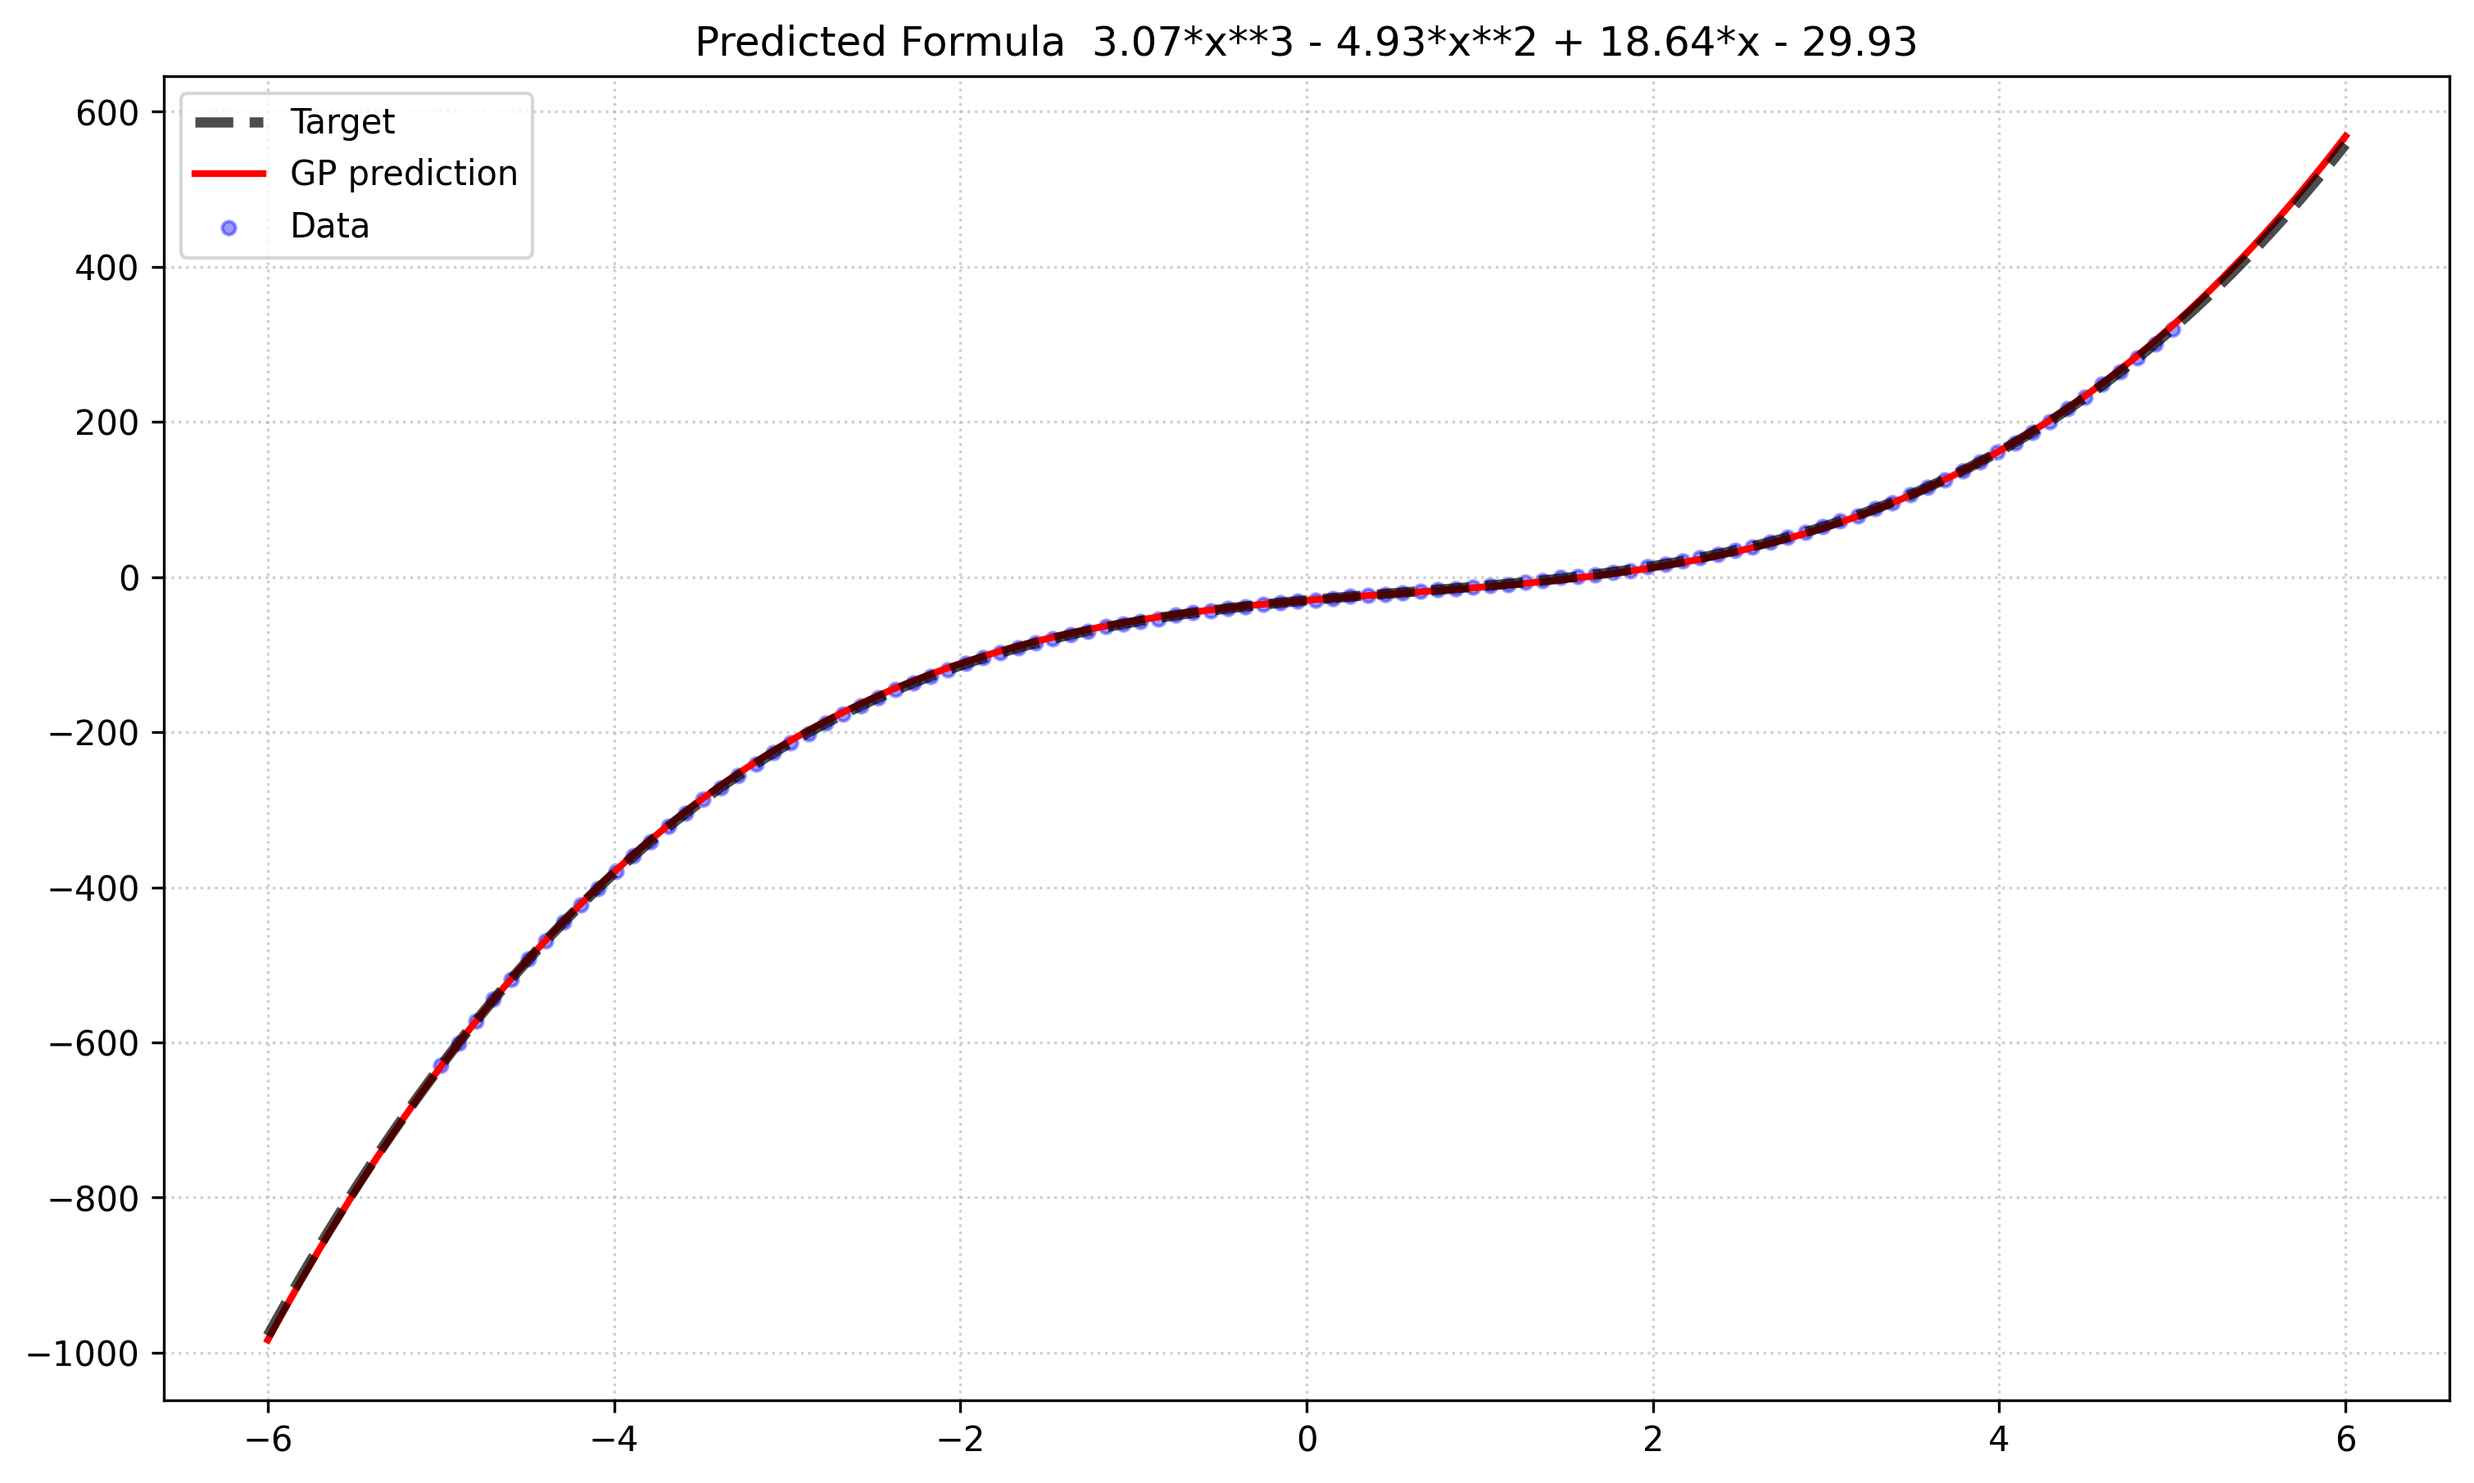
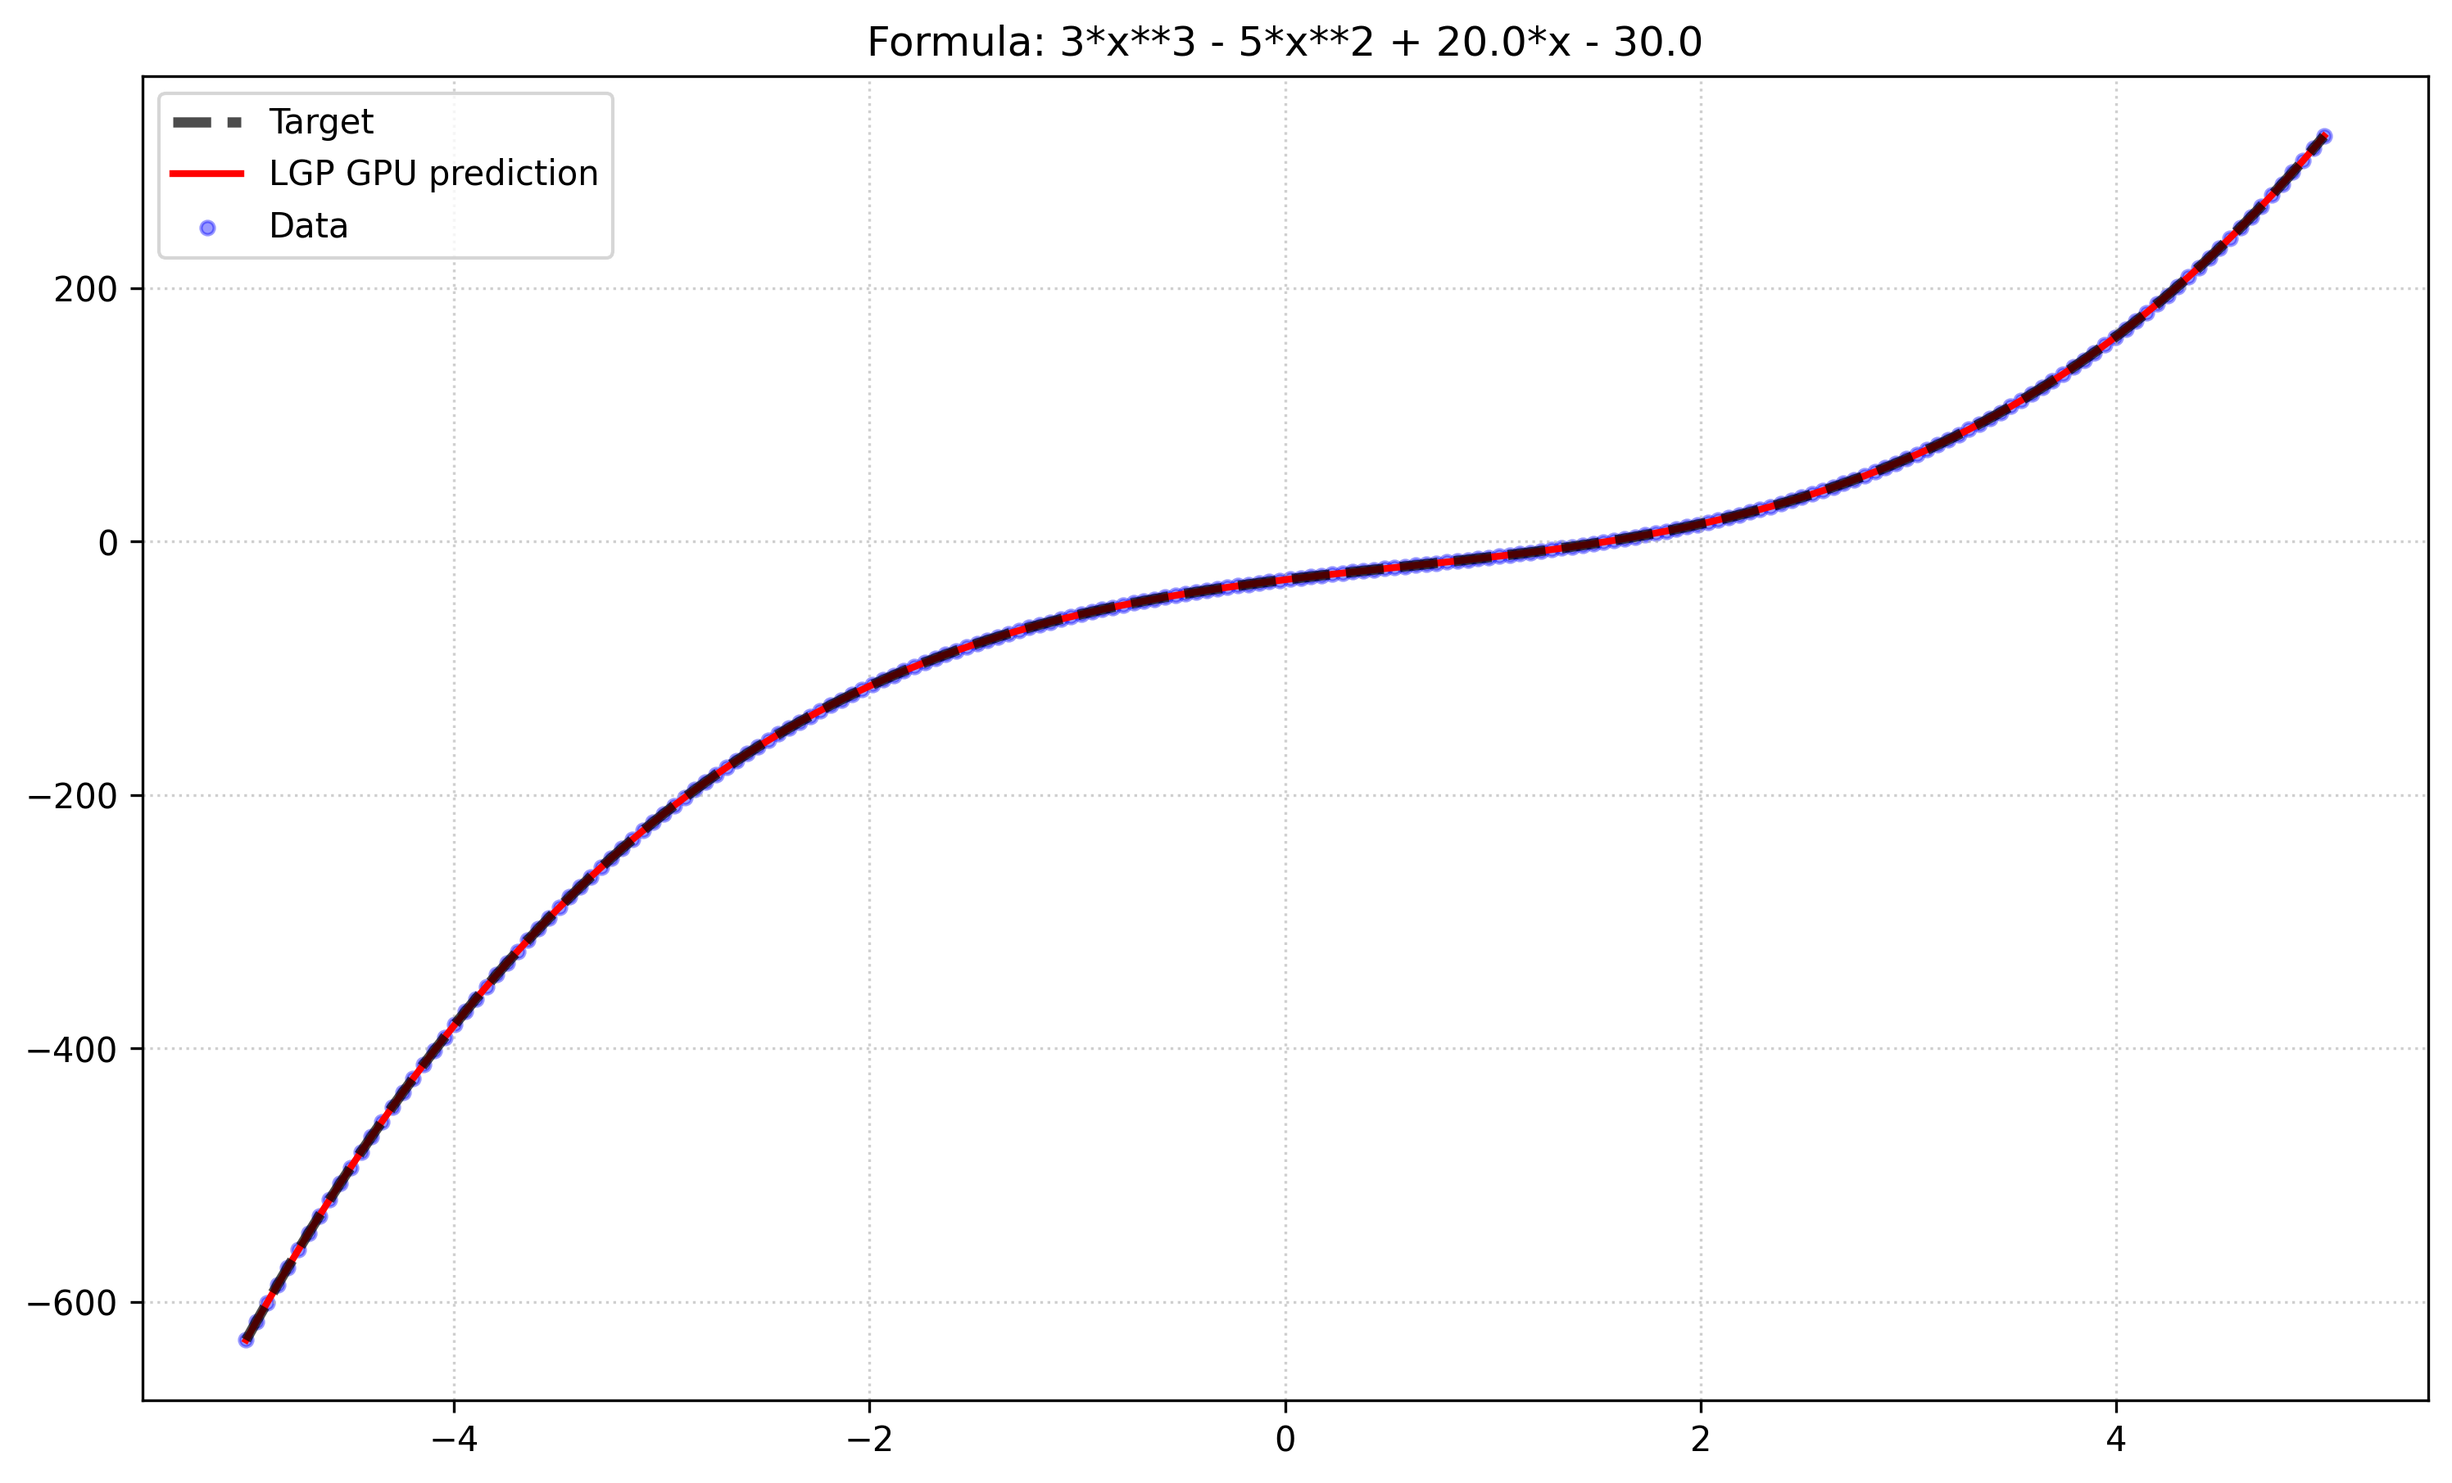
to a simple Linear GP

diff --git a/gp_engine.py b/gp_engine.py
@@ -1,95 +1,78 @@
-import numpy as np
+import torch
 import sympy
 
-operators = {
-    'add': np.add,
-    'sub': np.subtract,
-    'mul': np.multiply,
-    'pow': lambda x, y: np.power(np.abs(x), np.clip(y, -4, 4))
-}
-
-class Node:
-    def __init__(self, value, left=None, right=None):
-        self.value = value
-        self.left = left
-        self.right = right
+class LGPEngine:
+    def __init__(self, pop_size, num_regs=6, max_instr=40, device='cuda'):
+        self.pop_size = pop_size
+        self.num_regs = num_regs
+        self.max_instr = max_instr
+        self.device = device
+        self.pop = torch.randint(0, num_regs, (pop_size, max_instr, 4), device=device)
+        self.pop[:, :, 1] = torch.randint(0, 3, (pop_size, max_instr), device=device)
 
     def evaluate(self, x):
-        if self.value == 'x': 
-            return x
-        if isinstance(self.value, (int, float)): 
-            return np.full_like(x, self.value)
+        n_pts = x.shape[0]
+        regs = torch.zeros((self.pop_size, self.num_regs, n_pts), device=self.device)
+        regs[:, 0, :] = x.expand(self.pop_size, n_pts)
         
-        l_val = self.left.evaluate(x)
-        r_val = self.right.evaluate(x)
-        
-        try:
-            res = operators[self.value](l_val, r_val)
-            return np.nan_to_num(res, nan=0.0, posinf=1e6, neginf=-1e6)
-        except:
-            return np.zeros_like(x)
+        for i in range(1, self.num_regs):
+            const_val = (i - self.num_regs//2) * 5.0
+            regs[:, i, :] = torch.full((self.pop_size, n_pts), const_val, device=self.device)
 
-    def copy(self):
-        return Node(self.value, self.left.copy() if self.left else None, self.right.copy() if self.right else None)
+        for i in range(self.max_instr):
+            instr = self.pop[:, i, :]
+            dst, op, s1, s2 = instr[:, 0], instr[:, 1], instr[:, 2], instr[:, 3]
+            
+            v1 = regs[torch.arange(self.pop_size), s1]
+            v2 = regs[torch.arange(self.pop_size), s2]
+            
+            res_add = v1 + v2
+            res_sub = v1 - v2
+            res_mul = v1 * v2
+            
+            ops_stack = torch.stack([res_add, res_sub, res_mul], dim=1)
+            regs[torch.arange(self.pop_size), dst] = ops_stack[torch.arange(self.pop_size), op]
+            
+        return torch.clamp(regs[:, 0, :], -1e6, 1e6)
 
-    def __str__(self):
-        if self.value == 'x': return "x"
-        if isinstance(self.value, (int, float)): return f"{self.value:.2f}"
-        if self.value == 'pow':
-            try:
-                exp = self.right.evaluate(np.array([1.0]))[0]
-                return f"({self.left}**{int(np.round(exp))})"
-            except:
-                return f"({self.left}**0)"
-        return f"({self.left} {self.value} {self.right})"
-
-    def get_depth(self):
-        if not self.left and not self.right: return 1
-        return 1 + max(self.left.get_depth() if self.left else 0, self.right.get_depth() if self.right else 0)
-
-    def get_all_nodes(self):
-        nodes = [self]
-        if self.left: nodes.extend(self.left.get_all_nodes())
-        if self.right: nodes.extend(self.right.get_all_nodes())
-        return nodes
-
-def generate_random_tree(depth=3):
-    if depth <= 1 or np.random.rand() < 0.2:
-        return Node('x') if np.random.rand() > 0.4 else Node(float(np.random.randint(-15, 16)))
-    op = np.random.choice(list(operators.keys()))
-    if op == 'pow':
-        return Node(op, generate_random_tree(depth-1), Node(float(np.random.randint(0, 4))))
-    return Node(op, generate_random_tree(depth-1), generate_random_tree(depth-1))
-
-def mutate(tree):
-    r = np.random.rand()
-    if isinstance(tree.value, (int, float)):
-        if r < 0.6:
-            tree.value += np.random.normal(0, 5.0)
-            return tree
+def evolve(engine, fitness):
+    pop_size, max_instr, _ = engine.pop.shape
+    idx = torch.argsort(fitness)
     
-    if r < 0.2:
-        return generate_random_tree(depth=3)
+    elites = engine.pop[idx[:pop_size // 10]]
     
-    if tree.left and np.random.rand() < 0.5:
-        tree.left = mutate(tree.left)
-    elif tree.right:
-        tree.right = mutate(tree.right)
-    return tree
+    p1 = elites[torch.randint(0, len(elites), (pop_size,))]
+    p2 = elites[torch.randint(0, len(elites), (pop_size,))]
+    
+    cp = torch.randint(0, max_instr, (pop_size, 1, 1), device=engine.device)
+    mask = torch.arange(max_instr, device=engine.device).view(1, -1, 1) < cp
+    offspring = torch.where(mask, p1, p2)
+    
+    mut_mask = torch.rand(offspring.shape, device=engine.device) < 0.08
+    mut_vals = torch.randint(0, engine.num_regs, offspring[mut_mask].shape, device=engine.device)
+    offspring[mut_mask] = mut_vals
+    offspring[:, :, 1] %= 3
+    
+    offspring[:len(elites)] = elites
+    engine.pop = offspring
 
-def crossover(p1, p2):
-    c = p1.copy()
-    nodes_c = c.get_all_nodes()
-    nodes_p2 = p2.get_all_nodes()
-    target = np.random.choice(nodes_c)
-    replacement = np.random.choice(nodes_p2).copy()
-    target.value, target.left, target.right = replacement.value, replacement.left, replacement.right
-    return c
-
-def final_simplify(node):
+def get_final_expression(best_individual, num_regs=6):
     x = sympy.Symbol('x')
-    raw = str(node).replace('add', '+').replace('sub', '-').replace('mul', '*').replace('pow', '**')
+    regs = [0.0] * num_regs
+    regs[0] = x
+    for i in range(1, num_regs):
+        regs[i] = float((i - num_regs//2) * 5.0)
+    
+    for i in range(best_individual.shape[0]):
+        dst, op, s1, s2 = map(int, best_individual[i])
+        v1, v2 = regs[s1], regs[s2]
+        if op == 0: res = v1 + v2
+        elif op == 1: res = v1 - v2
+        elif op == 2: res = v1 * v2
+        regs[dst] = res
+
+    final_expr = regs[0]
     try:
-        return sympy.expand(sympy.sympify(raw)).n(4)
+        return sympy.expand(final_expr)
     except:
-        return raw
+        return final_expr

diff --git a/main.py b/main.py
@@ -1,93 +1,54 @@
-import numpy as np
+import torch
 import matplotlib.pyplot as plt
-from gp_engine import generate_random_tree, mutate, crossover, final_simplify
+from gp_engine import LGPEngine, evolve, get_final_expression
 
-def target_function(x):
+def target_func(x):
     return 3*(x**3) - 5*(x**2) + 20*x - 30
 
-X_SCOPE = 5
-POP_SIZE = 1200
-LOSS_THRESHOLD = 5.0
-MAX_DEPTH = 10
+DEVICE = 'cuda' if torch.cuda.is_available() else 'cpu'
+POP_SIZE = 8192
 MAX_GENS = 2000
-ELITE_SIZE = int(POP_SIZE * 0.05)
-STAGNATION_LIMIT = 40
+NUM_REGS = 6
+MAX_INSTR = 50
 
-x_train = np.linspace(-X_SCOPE, X_SCOPE, X_SCOPE*20)
-y_train = target_function(x_train) + np.random.normal(0, 0.5, size=x_train.shape)
+print(f"Running LGP on {DEVICE}")
 
-population = [generate_random_tree(depth=4) for _ in range(POP_SIZE)]
-best_overall_tree = None
-min_fitness = float('inf')
-gen = 0
-stagnation_counter = 0
+x_train = torch.linspace(-5, 5, 200, device=DEVICE)
+y_train = target_func(x_train)
 
-while min_fitness > LOSS_THRESHOLD and gen < MAX_GENS:
-    fitness_scores = []
-    for tree in population:
-        pred = tree.evaluate(x_train)
-        mse = np.mean((pred - y_train)**2)
-        complexity = str(tree).count('(') * 0.1
-        depth_penalty = max(0, tree.get_depth() - MAX_DEPTH) * 100
-        score = mse + complexity + depth_penalty
-        fitness_scores.append(score if np.isfinite(score) else 1e9)
+engine = LGPEngine(POP_SIZE, NUM_REGS, MAX_INSTR, DEVICE)
+
+for gen in range(MAX_GENS):
+    preds = engine.evaluate(x_train)
+    mse = torch.mean((preds - y_train)**2, dim=1)
+    mse = torch.nan_to_num(mse, nan=1e12, posinf=1e12)
     
-    fitness_scores = np.array(fitness_scores)
-    sorted_indices = np.argsort(fitness_scores)
-    current_best_score = fitness_scores[sorted_indices[0]]
-
-    if current_best_score < min_fitness - 0.01:
-        min_fitness = current_best_score
-        best_overall_tree = population[sorted_indices[0]].copy()
-        stagnation_counter = 0
-    else:
-        stagnation_counter += 1
-
-    if gen % 10 == 0:
-        print(f"Gen {gen:03d} | Loss: {min_fitness:.2f} | Stagnation: {stagnation_counter}")
-
-    next_gen = [population[i].copy() for i in sorted_indices[:ELITE_SIZE]]
+    best_val, best_idx = torch.min(mse, 0)
     
-    if stagnation_counter > STAGNATION_LIMIT:
-        while len(next_gen) < POP_SIZE:
-            r = np.random.rand()
-            if r < 0.7:
-                next_gen.append(generate_random_tree(depth=np.random.randint(3, 7)))
-            else:
-                p = population[np.random.choice(sorted_indices[:10])].copy()
-                next_gen.append(mutate(mutate(p)))
-        stagnation_counter = 0
-    else:
-        while len(next_gen) < POP_SIZE:
-            r = np.random.rand()
-            if r < 0.75:
-                p1 = population[np.random.choice(sorted_indices[:25])]
-                p2 = population[np.random.choice(sorted_indices[:25])]
-                next_gen.append(crossover(p1, p2))
-            elif r < 0.95:
-                p = population[np.random.choice(sorted_indices[:50])].copy()
-                next_gen.append(mutate(p))
-            else:
-                next_gen.append(generate_random_tree(depth=3))
+    if gen % 100 == 0:
+        print(f"Gen {gen:04d} | Best MSE: {best_val.item():.4f}")
     
-    population = next_gen
-    gen += 1
+    if best_val < 0.5:
+        break
+        
+    evolve(engine, mse)
 
-x_test = np.linspace(-X_SCOPE*1.2, X_SCOPE*1.2, 200)
-y_true = target_function(x_test)
-y_pred = best_overall_tree.evaluate(x_test)
-final_expr = final_simplify(best_overall_tree)
+best_pred = engine.evaluate(x_train)[best_idx].detach().cpu().numpy()
+x_plot = x_train.cpu().numpy()
+y_true = y_train.cpu().numpy()
 
-print("-" * 30)
-print(f"Finished at Gen {gen} | Final Loss: {min_fitness:.2f}")
-print(f"Final Expression: {final_expr}")
+best_ind = engine.pop[best_idx].cpu().numpy()
+final_expr = get_final_expression(best_ind, NUM_REGS)
 
 plt.figure(figsize=(12, 7))
-plt.plot(x_test, y_true, color='black', linestyle='--', linewidth=3, alpha=0.7, label="Target", zorder=10)
-plt.plot(x_test, y_pred, color='red', linestyle='-', linewidth=2, label="GP prediction", zorder=5)
-plt.scatter(x_train, y_train, color='blue', s=15, alpha=0.4, label="Data", zorder=1)
-plt.title(f"Predicted Formula  {final_expr}")
+plt.plot(x_plot, y_true, color='black', linestyle='--', linewidth=3, alpha=0.7, label="Target", zorder=10)
+plt.plot(x_plot, best_pred, color='red', linestyle='-', linewidth=2, label="LGP GPU prediction", zorder=5)
+plt.scatter(x_plot, y_true, color='blue', s=15, alpha=0.4, label="Data", zorder=1)
+plt.title(f"Formula: {final_expr}")
 plt.legend()
 plt.grid(True, linestyle=':', alpha=0.6)
 plt.savefig('result.png', dpi=300, bbox_inches='tight')
 plt.show()
+
+print("-" * 30)
+print(f"Final Formula: {final_expr}")
